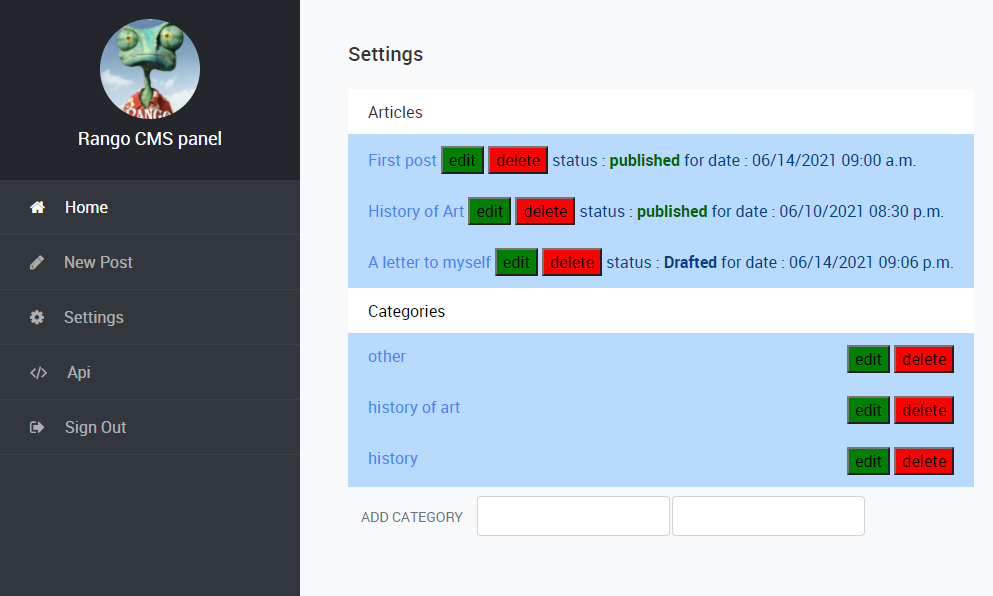
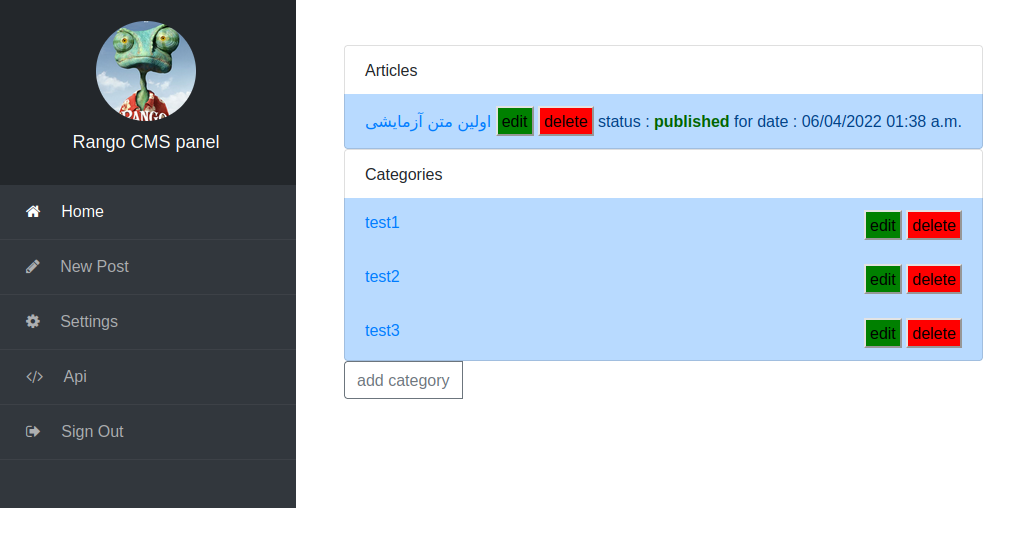
modified ReadMe and screenshots.

diff --git a/README.md b/README.md
@@ -50,5 +50,6 @@ API(implemented serializers for now)
 ![panel](/screenshots/panel.png?raw=true)
 ![panel](/screenshots/panel2.png?raw=true)
 ![panel](/screenshots/panel3.png?raw=true)
-![panel](/screenshots/post.png?raw=true)
+![blog](/screenshots/post.png?raw=true)
+![blog](/screenshots/single_post.png?raw=true)
 ![login](/screenshots/login.jpg?raw=true)
